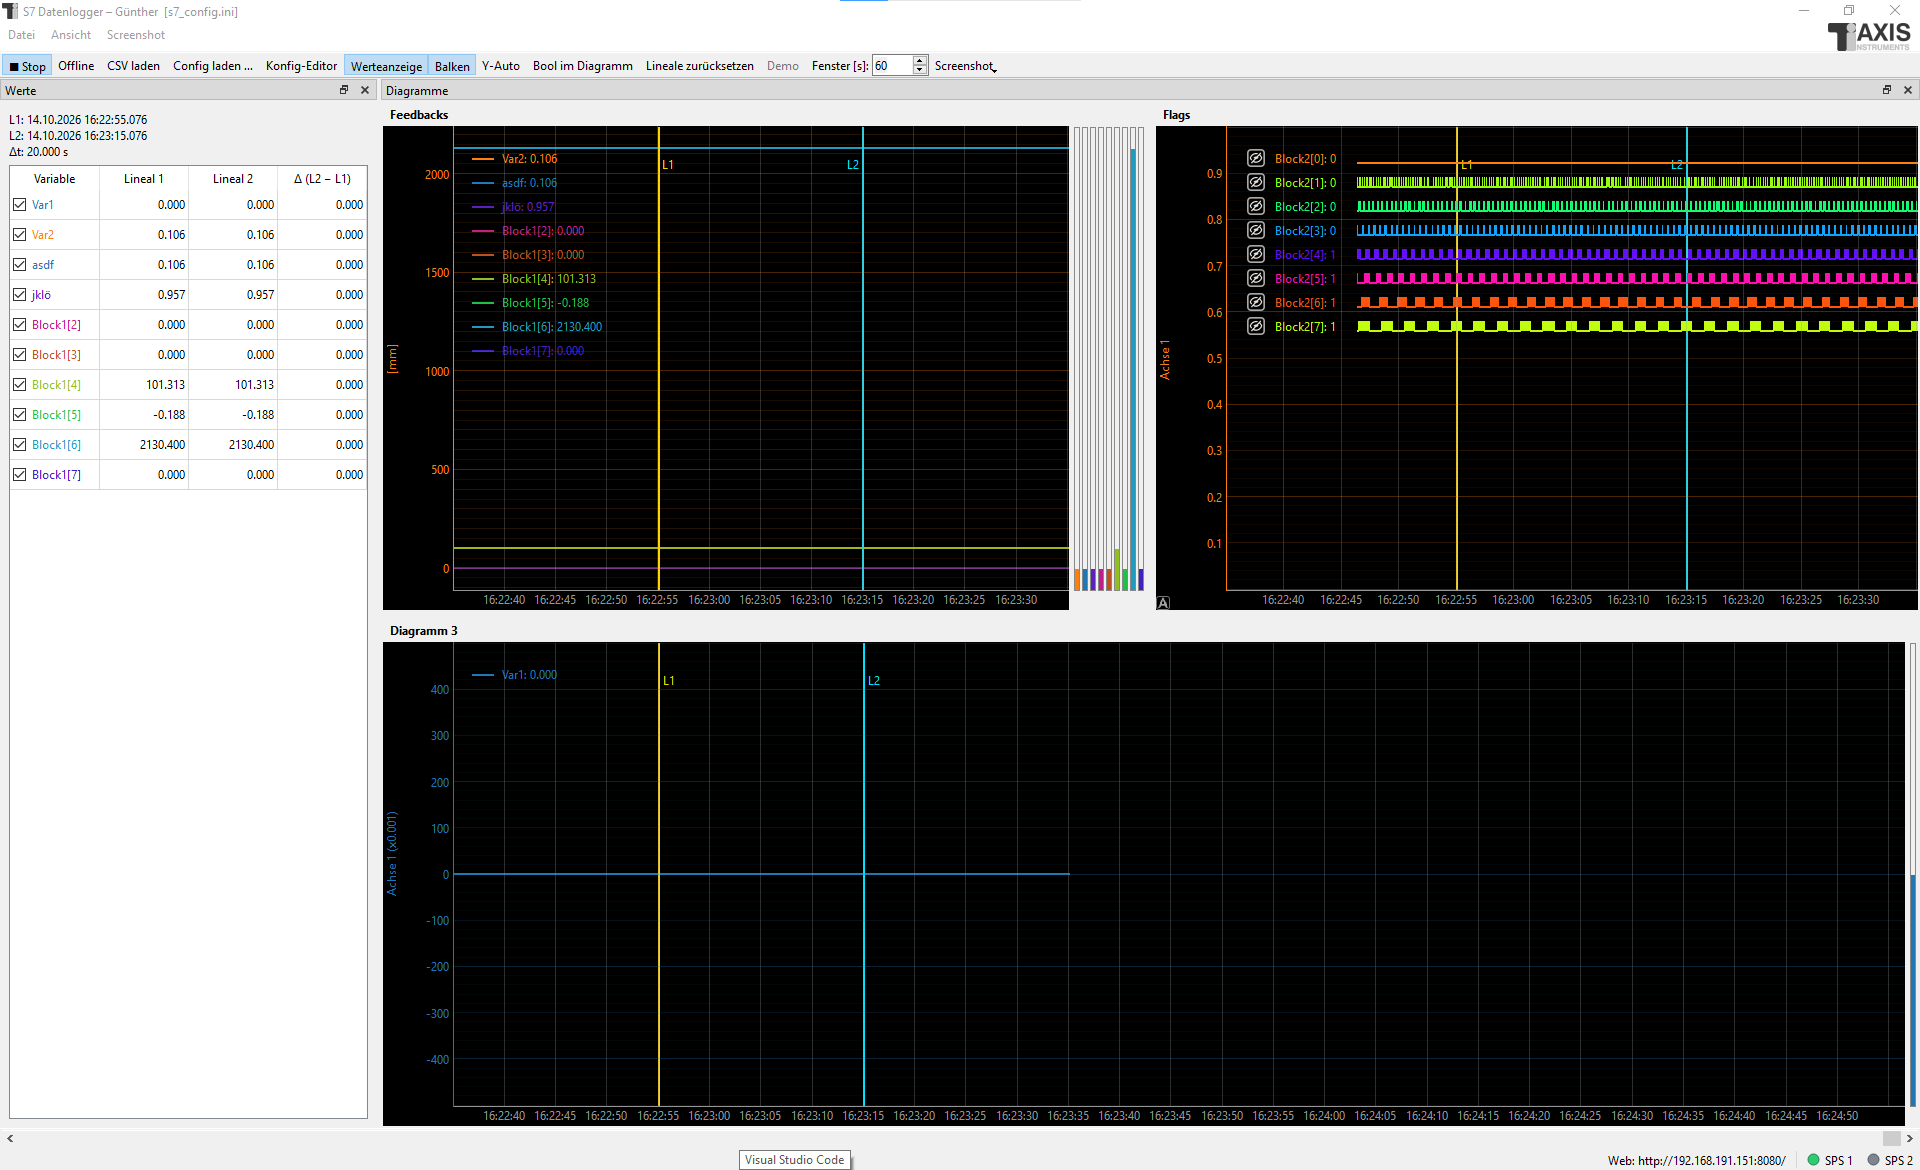
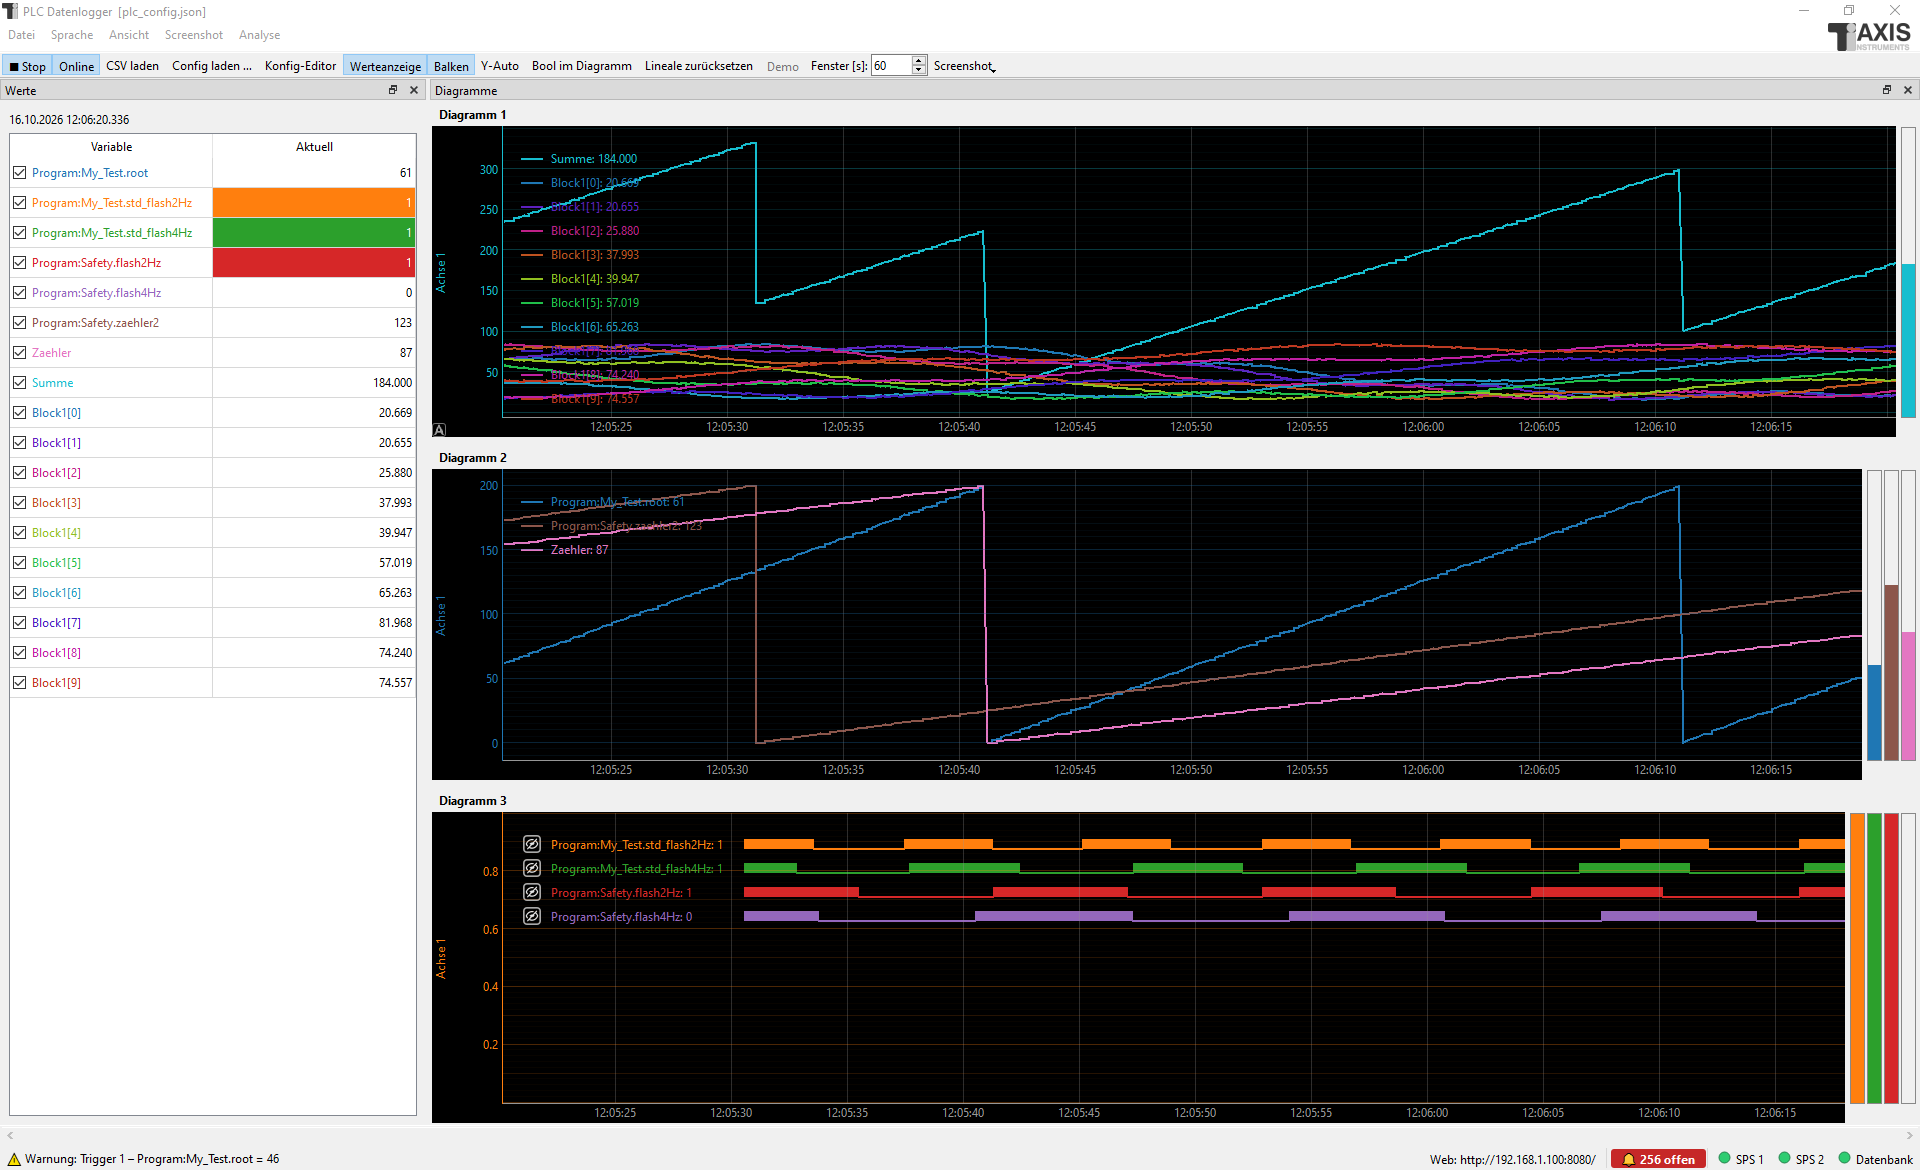
Weitere Screenshots der Anleitung (Startbild, Tag-Liste, Logger online/offline, Lineale, Wertetabelle, Status-LEDs, Trigger, Notiz, PID, Screenshot-Menü, Webserver)
Claude-Session: https://claude.ai/code/session_01Q6oQyvEyXL3m776U2nsG9c

Changed region(s): [[0.0, 0.0, 1.0, 1.0], [0.0, 0.9846, 0.1562, 1.0], [0.9062, 0.5846, 0.9375, 0.6154]]

diff --git a/bedienungsanleitung.rst b/bedienungsanleitung.rst
@@ -289,7 +289,7 @@ Beim Start von Logger und Konfigurationsprogramm erscheint das **Startbild**:
    :width: 80%
    :align: center
 
-   Startbild mit den zuletzt benutzten Konfigurationen.
+   Startbild des Konfigurationsprogramms: Konfiguration wählen oder neu anlegen.
 
 * **Zuletzt benutzt**: die zuletzt geöffneten Konfigurationen mit Ordner und Änderungsdatum.
   Doppelklick oder **Öffnen** (Eingabetaste) startet mit der markierten Datei.
@@ -884,7 +884,7 @@ Variablen aus der Steuerung wählen
    :width: 90%
    :align: center
 
-   Auswahl von Variablen aus der Steuerung.
+   Beispiel: Tag-Liste einer ControlLogix (Treiber ``clx``), bereits angelegte Tags sind angehakt.
 
 Der Knopf über der Variablentabelle heißt je nach Treiber der gewählten
 Steuerung unterschiedlich und öffnet dessen Auswahldialog (bei mehreren
